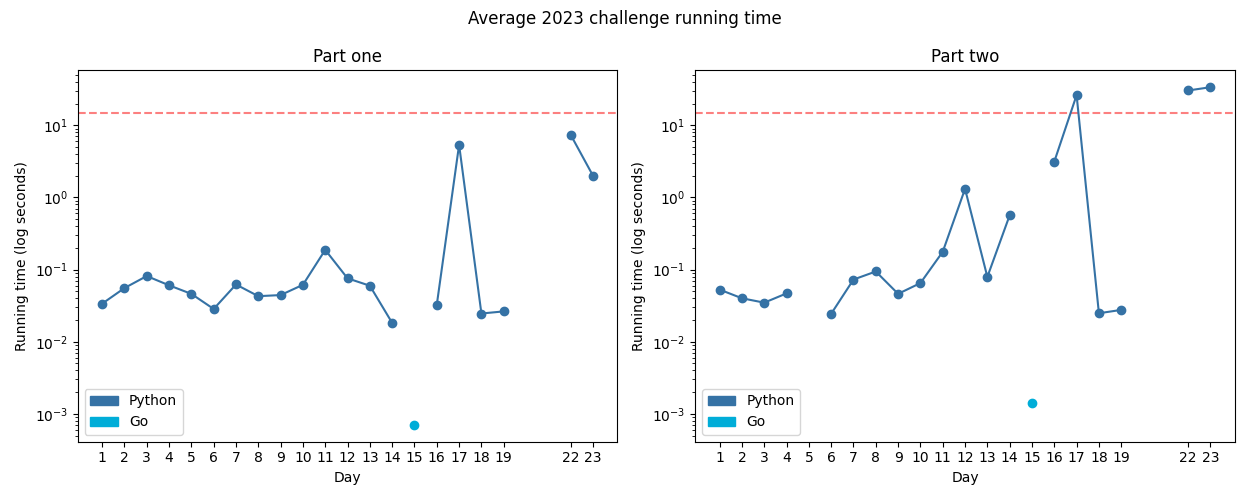
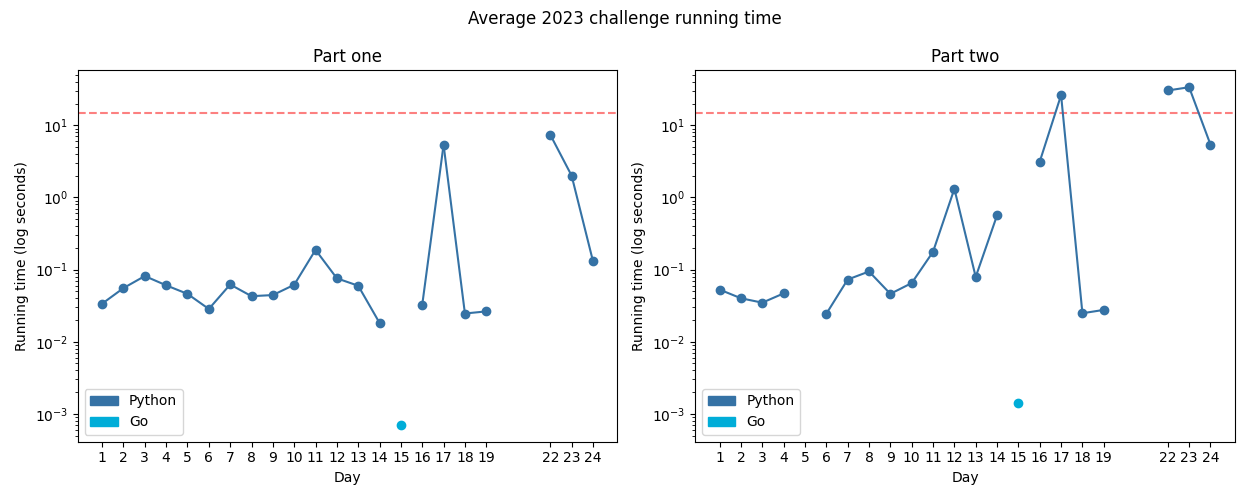
2023.24

diff --git a/challenges/2023/24-neverTellMeTheOdds/main.py b/challenges/2023/24-neverTellMeTheOdds/main.py
@@ -1,0 +1,112 @@
+import sys
+from collections import namedtuple
+from numbers import Number
+import gridutil.coord as cu
+from functools import reduce
+import math
+import z3
+
+
+Hailstone = namedtuple("Hailstone", ["position", "velocity"])
+
+
+def parse(instr: str) -> list[Hailstone]:
+    return [
+        Hailstone(
+            *map(lambda x: cu.Coordinate3(*map(int, x.split(", "))), line.split(" @ "))
+        )
+        for line in instr.splitlines()
+    ]
+
+
+def get_2d_line(stone: Hailstone) -> tuple[Number, Number]:
+    m = stone.velocity.y / stone.velocity.x
+    c = stone.position.y - (m * stone.position.x)
+    return m, c
+
+
+def get_2d_intersection(a: Hailstone, b: Hailstone) -> cu.Coordinate | None:
+    m1, c1 = get_2d_line(a)
+    m2, c2 = get_2d_line(b)
+
+    if math.isclose(m1, m2):
+        return None
+
+    x = (c2 - c1) / (m1 - m2)
+    y = (m1 * x) + c1
+    return cu.Coordinate(x, y)
+
+
+def one(instr: str):
+    hailstones = parse(instr)
+
+    MIN, MAX = (7, 27) if len(hailstones) == 5 else (200000000000000, 400000000000000)
+
+    acc = 0
+    for i, stone1 in enumerate(hailstones[:-1]):
+        for stone2 in hailstones[i + 1 :]:
+            if stone1 == stone2:
+                continue
+
+            p = get_2d_intersection(stone1, stone2)
+            if p is None or not reduce(lambda acc, x: acc and MIN <= x <= MAX, p, True):
+                continue
+
+            if not (
+                (p.x > stone1.position.x) == (stone1.velocity.x > 0)
+                and (p.x > stone2.position.x) == (stone2.velocity.x > 0)
+            ):
+                continue
+            acc += 1
+
+    return acc
+
+
+def two(instr: str):
+    hailstones = parse(instr)
+
+    # for our thrown rock
+    #     initial position: x,  y,  z
+    #     velocity:         vx, vy, vz
+
+    # for each of 3 hailstones
+    #     time of collision with that hailstone: t_i
+    #     intial position:                       hx,  hy,  hz
+    #     velocity:                              hvx, hvy, hvz
+
+    x, y, z = (z3.Int(x) for x in ["x", "y", "z"])
+    vx, vy, vz = (z3.Int(x) for x in ["vx", "vy", "vz"])
+
+    solver = z3.Solver()
+
+    for i in range(3):
+        hailstone = hailstones[i]
+        t = z3.Int(f"t_{i}")
+        solver.add(
+            t >= 0,
+            x + (vx * t) == hailstone.position.x + (hailstone.velocity.x * t),
+            y + (vy * t) == hailstone.position.y + (hailstone.velocity.y * t),
+            z + (vz * t) == hailstone.position.z + (hailstone.velocity.z * t),
+        )
+
+    _debug("Solving...", end="", flush=True)
+    assert solver.check() == z3.sat
+    model = solver.model()
+    _debug("\r            \r" + str(model))
+    return sum(model[var].as_long() for var in [x, y, z])
+
+
+def _debug(*args, **kwargs):
+    kwargs["file"] = sys.stderr
+    print(*args, **kwargs)
+
+
+if __name__ == "__main__":
+    if len(sys.argv) < 2 or sys.argv[1] not in ["1", "2"]:
+        print("Missing day argument", file=sys.stderr)
+        sys.exit(1)
+    inp = sys.stdin.read().strip()
+    if sys.argv[1] == "1":
+        print(one(inp))
+    else:
+        print(two(inp))

diff --git a/challenges/2023/README.md b/challenges/2023/README.md
@@ -35,3 +35,4 @@ A day denoted with a star means it has a visualisation.
 | 21 - Step Counter | ★ ☆ | Python | ??? |
 | 22 - Sand Slabs | ★ ★ | Python | I maintain that OpenSCAD is the best AoC 3D debugging tool |
 | 23 - A Long Walk | ★ ★ | Python | Both parts here could theorietcially be done with the same implementation but I couldn't be bothered to rework the part 2 solution to work for part 1 as well. |
+| 24 - Never Tell Me The Odds | ★ ★ | Python | Z3 seems like an *incredible* useful tool but also not a satisfying puzzle at all :( |

diff --git a/challenges/2023/24-neverTellMeTheOdds/README.md b/challenges/2023/24-neverTellMeTheOdds/README.md
@@ -1,0 +1,7 @@
+# [Day 24: Never Tell Me The Odds](https://adventofcode.com/2023/day/24)
+
+Part 1 is not:
+* 1344 (too low)
+* 48384 (too high)
+
+Running this solution requires `z3-solver` to be installed.
